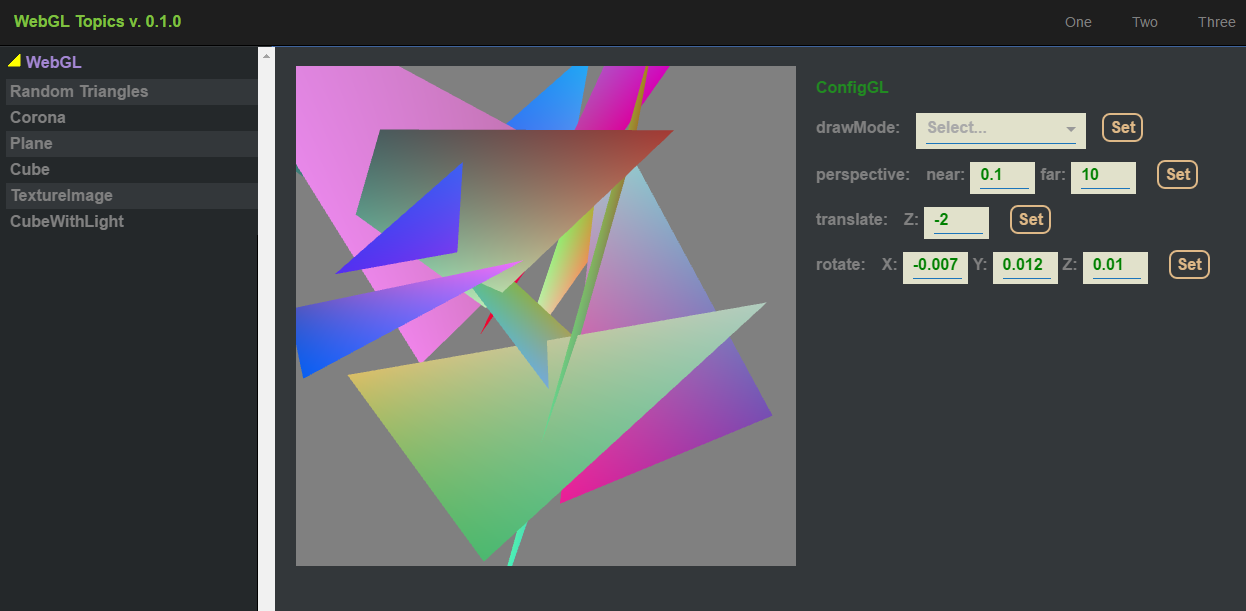
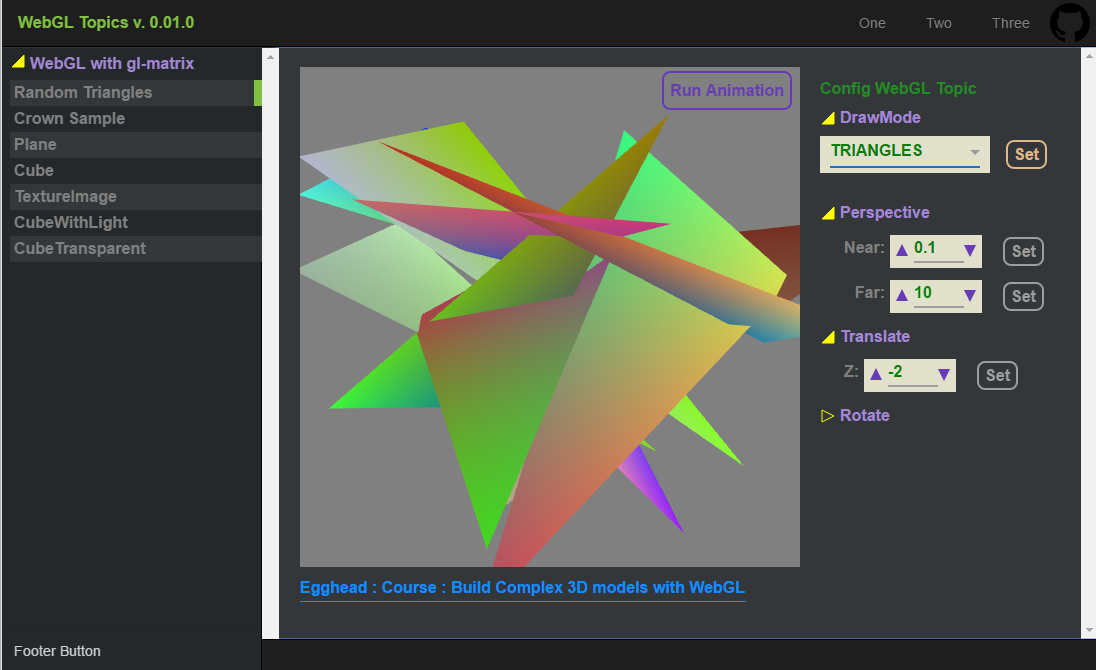
Update screenshot

diff --git a/css/app-f8a19b2c02.min.css b/css/app-f8a19b2c02.min.css
@@ -1,0 +1,1 @@
+.row__topic__even,.row__topic__odd{line-height:1.5;color:#000;padding-top:1px;padding-bottom:1px;padding-left:4px;cursor:pointer}.native-link,.noscript__caption,.row__topic__even,.row__topic__odd{font-size:16px;font-weight:700}.row:after,.sidebar__footer::before{content:""}.header__github-link,.native-link,.noscript__link,.sidebar__footer__link,a{text-decoration:none}.show-popup{transform-origin:50% 0;animation:showing-popup .4s ease-out}.hide-popup{transform-origin:50% 0;animation:hiding-popup .4s ease-out}.row__topic__odd{background-color:#33373A}.native-link,.native-link:visited{color:#0b8fff}.row__topic__even:hover,.row__topic__odd:hover{border-bottom:1px solid #1B75BB}.row{float:left}.row:after{clear:both;display:block}.native-link{display:block;border-bottom:thin solid}.native-link:hover{border-bottom-width:medium}.noscript__root{background-color:#4D4D4D;margin-top:30px;width:570px;margin-left:auto;margin-right:auto;height:120px;border:2px solid #232F3B;border-radius:10px;padding:10px}.noscript__header{background-color:#232F3B;height:28px;border-bottom-left-radius:10px;border-bottom-right-radius:10px;padding-top:4px;padding-left:10px;padding-right:10px;margin-bottom:10px}.app,body,html{height:100%}.noscript__caption{color:#80c040}.noscript__msg{background-color:#FFC100;border-top-left-radius:10px;border-top-right-radius:10px;color:#000;font-weight:700;padding:5px 10px 10px}*,button{padding:0;margin:0}.noscript__link{color:#000;border-bottom:1px solid #1B75BB}*{box-sizing:border-box}a{color:#000;outline:0}a:visited{color:gray}button{background:0 0;border:0;font-family:inherit;-moz-appearance:none}.option-row:hover,.option-row__active{border-bottom:solid 2px #1B75BB;font-weight:bolder}html{font-size:100%;background:#33373A}body{background-color:gray;margin:0;overflow:auto;font:1em/1.7 "Open Sans",Helvetica,Arial,sans-serif;color:#CBD0D0;word-wrap:break-word}.app{position:relative;z-index:1;padding-top:3rem;overflow:hidden;background:#33373A;transition:opacity .2s ease 0s}.header{position:absolute;z-index:3;top:0;left:0;right:0;height:3rem;line-height:3rem;background:#1E1E1E;border-bottom:1px solid #000}.header__nav{float:right;margin-right:.5rem;font-size:.875rem;color:#CBD0D0}.header__nav__link,.header__nav__link:hover{position:relative;float:left;padding:0 1.25rem;color:gray;text-decoration:none}.header__github-link{display:inline-block;position:relative;float:left;fill:#000;transition:fill .2s ease-out}.header__github-link svg{width:2.5rem;height:3rem}.sidebar__footer,.sidebar__menu{width:260px;box-shadow:-1px 0 #000 inset}.header__github-link:hover{fill:#80c040}.sidebar{position:absolute;z-index:2;top:3rem;bottom:0;left:0;margin-top:1px;overflow-x:hidden;overflow-y:scroll;background:padding-box content-box #24282A}.sidebar__menu{margin:0;padding:0 0 3.5rem;list-style:none;min-height:100%}.sidebar__footer{position:fixed;bottom:0;left:0;background:#24282A;transform:translateZ(0)}.sidebar__footer::before{position:absolute;bottom:100%;left:0;right:1px;height:1em;background-image:linear-gradient(to bottom,rgba(36,40,42,0),rgba(36,40,42,.95));pointer-events:none}.sidebar__footer__link{color:inherit;position:relative;display:inline-block;overflow:hidden;height:2.5rem;line-height:1rem;padding:.75rem .25rem .75rem .75rem;font-size:.875em;cursor:pointer}.container{position:relative;z-index:1;height:100%;margin-left:260px;padding-bottom:2rem;pointer-events:none}.container__content{position:relative;height:100%;overflow-y:scroll;margin-left:.875rem;padding:1.25rem 1.5rem 0;font-size:.875rem;pointer-events:auto}.container__footer{position:absolute;z-index:3;bottom:0;left:260px;right:0;height:2rem;line-height:2rem;padding:0 .375rem;font-size:.875rem;background:#1E1E1E;box-shadow:0 1px #000 inset}.not-selected{-webkit-touch-callout:none;-webkit-user-select:none;-khtml-user-select:none;-moz-user-select:none;-ms-user-select:none;user-select:none}

diff --git a/js/components/topic-menu/menuModel.js b/js/components/topic-menu/menuModel.js
@@ -4,6 +4,10 @@ Object.defineProperty(exports, "__esModule", {
   value: true
 });
 
+var _ID = require('../topics/ID');
+
+var _ID2 = _interopRequireDefault(_ID);
+
 var _RouterTopicActions = require('../../flux/actions/RouterTopicActions');
 
 var _RouterTopicActions2 = _interopRequireDefault(_RouterTopicActions);
@@ -11,48 +15,48 @@ var _RouterTopicActions2 = _interopRequireDefault(_RouterTopicActions);
 function _interopRequireDefault(obj) { return obj && obj.__esModule ? obj : { default: obj }; }
 
 var menuModel = [{
-  caption: 'WebGL',
+  caption: 'WebGL with gl-matrix',
   items: [{
-    id: 'RANDOM_TRIANGLES',
+    id: _ID2.default.RANDOM_TRIANGLES,
     title: "Random Triangles",
     onClick: function onClick() {
-      return _RouterTopicActions2.default.viewTopic('RANDOM_TRIANGLES');
+      return _RouterTopicActions2.default.viewTopic(_ID2.default.RANDOM_TRIANGLES);
     }
   }, {
-    id: 'CORONA',
-    title: "Corona",
+    id: _ID2.default.CROWN,
+    title: "Crown Sample",
     onClick: function onClick() {
-      return _RouterTopicActions2.default.viewTopic('CORONA');
+      return _RouterTopicActions2.default.viewTopic(_ID2.default.CROWN);
     }
   }, {
-    id: 'PLANE',
+    id: _ID2.default.PLANE,
     title: "Plane",
     onClick: function onClick() {
-      return _RouterTopicActions2.default.viewTopic('PLANE');
+      return _RouterTopicActions2.default.viewTopic(_ID2.default.PLANE);
     }
   }, {
-    id: 'CUBE',
+    id: _ID2.default.CUBE,
     title: "Cube",
     onClick: function onClick() {
-      return _RouterTopicActions2.default.viewTopic('CUBE');
+      return _RouterTopicActions2.default.viewTopic(_ID2.default.CUBE);
     }
   }, {
-    id: 'TEXTURE_IMAGE',
+    id: _ID2.default.TEXTURE_IMAGE,
     title: "TextureImage",
     onClick: function onClick() {
-      return _RouterTopicActions2.default.viewTopic('TEXTURE_IMAGE');
+      return _RouterTopicActions2.default.viewTopic(_ID2.default.TEXTURE_IMAGE);
     }
   }, {
-    id: 'CUBE_WITH_LIGHT',
+    id: _ID2.default.CUBE_WITH_LIGHT,
     title: "CubeWithLight",
     onClick: function onClick() {
-      return _RouterTopicActions2.default.viewTopic('CUBE_WITH_LIGHT');
+      return _RouterTopicActions2.default.viewTopic(_ID2.default.CUBE_WITH_LIGHT);
     }
   }, {
-    id: 'CUBE_TRANSPARENT',
+    id: _ID2.default.CUBE_TRANSPARENT,
     title: "CubeTransparent",
     onClick: function onClick() {
-      return _RouterTopicActions2.default.viewTopic('CUBE_TRANSPARENT');
+      return _RouterTopicActions2.default.viewTopic(_ID2.default.CUBE_TRANSPARENT);
     }
   }]
 }];

diff --git a/js/components/topics/factoryTopic.js b/js/components/topics/factoryTopic.js
@@ -4,9 +4,15 @@ Object.defineProperty(exports, "__esModule", {
   value: true
 });
 
+var _rTopic2;
+
 var _WebGLTopic = require('./WebGLTopic');
 
 var _WebGLTopic2 = _interopRequireDefault(_WebGLTopic);
+
+var _ID = require('./ID');
+
+var _ID2 = _interopRequireDefault(_ID);
 
 var _RandomTriangles = require('./gl-props/RandomTriangles');
 
@@ -38,26 +44,18 @@ var _CubeTransparent2 = _interopRequireDefault(_CubeTransparent);
 
 function _interopRequireDefault(obj) { return obj && obj.__esModule ? obj : { default: obj }; }
 
-//import React from 'react';
+function _defineProperty(obj, key, value) { if (key in obj) { Object.defineProperty(obj, key, { value: value, enumerable: true, configurable: true, writable: true }); } else { obj[key] = value; } return obj; }
 
-var _rTopic = {
-  DEFAULT: { props: _RandomTriangles2.default },
-  //DEFAULT : { props : CubeWithLight },
-  RANDOM_TRIANGLES: { props: _RandomTriangles2.default },
-  CORONA: { props: _CoronaSample2.default },
-  PLANE: { props: _Plane2.default },
-  CUBE: { props: _Cube2.default },
-  TEXTURE_IMAGE: { props: _TextureImage2.default },
-  CUBE_WITH_LIGHT: { props: _CubeWithLight2.default },
-  CUBE_TRANSPARENT: { props: _CubeTransparent2.default }
-};
+var _rTopic = (_rTopic2 = {
+  DEFAULT: { props: _RandomTriangles2.default }
+
+}, _defineProperty(_rTopic2, _ID2.default.RANDOM_TRIANGLES, { props: _RandomTriangles2.default }), _defineProperty(_rTopic2, _ID2.default.CROWN, { props: _CoronaSample2.default }), _defineProperty(_rTopic2, _ID2.default.PLANE, { props: _Plane2.default }), _defineProperty(_rTopic2, _ID2.default.CUBE, { props: _Cube2.default }), _defineProperty(_rTopic2, _ID2.default.TEXTURE_IMAGE, { props: _TextureImage2.default }), _defineProperty(_rTopic2, _ID2.default.CUBE_WITH_LIGHT, { props: _CubeWithLight2.default }), _defineProperty(_rTopic2, _ID2.default.CUBE_TRANSPARENT, { props: _CubeTransparent2.default }), _rTopic2);
 
 var factoryTopic = function factoryTopic(topicId) {
   var config = _rTopic[topicId],
       props = config ? config.props : _rTopic.DEFAULT.props;
 
   props.key = topicId + Date.now();
-  //return React.createElement(WebGLTopic, props);
   return { Comp: _WebGLTopic2.default, props: props };
 };
 

diff --git a/src/components/topic-menu/menuModel.js b/src/components/topic-menu/menuModel.js
@@ -1,38 +1,39 @@
 
+import ID from '../topics/ID';
 import Actions from '../../flux/actions/RouterTopicActions'
 
 const menuModel = [
   {
-    caption : 'WebGL',
+    caption : 'WebGL with gl-matrix',
     items : [
       {
-        id : 'RANDOM_TRIANGLES',
+        id : ID.RANDOM_TRIANGLES,
         title: "Random Triangles" ,
-        onClick : () => Actions.viewTopic('RANDOM_TRIANGLES')
+        onClick : () => Actions.viewTopic(ID.RANDOM_TRIANGLES)
       },{
-        id : 'CORONA',
-        title: "Corona" ,
-        onClick : () => Actions.viewTopic('CORONA')
+        id : ID.CROWN,
+        title: "Crown Sample" ,
+        onClick : () => Actions.viewTopic(ID.CROWN)
       },{
-        id : 'PLANE',
+        id : ID.PLANE,
         title: "Plane",
-        onClick : () => Actions.viewTopic('PLANE')
+        onClick : () => Actions.viewTopic(ID.PLANE)
       },{
-        id : 'CUBE',
+        id : ID.CUBE,
         title: "Cube",
-        onClick : () => Actions.viewTopic('CUBE')
+        onClick : () => Actions.viewTopic(ID.CUBE)
       },{
-        id : 'TEXTURE_IMAGE',
+        id : ID.TEXTURE_IMAGE,
         title: "TextureImage",
-        onClick : () => Actions.viewTopic('TEXTURE_IMAGE')
+        onClick : () => Actions.viewTopic(ID.TEXTURE_IMAGE)
       },{
-        id : 'CUBE_WITH_LIGHT',
+        id : ID.CUBE_WITH_LIGHT,
         title: "CubeWithLight",
-        onClick : () => Actions.viewTopic('CUBE_WITH_LIGHT')
+        onClick : () => Actions.viewTopic(ID.CUBE_WITH_LIGHT)
       },{
-        id : 'CUBE_TRANSPARENT',
+        id : ID.CUBE_TRANSPARENT,
         title: "CubeTransparent",
-        onClick : () => Actions.viewTopic('CUBE_TRANSPARENT')
+        onClick : () => Actions.viewTopic(ID.CUBE_TRANSPARENT)
       }
     ]
   }

diff --git a/src/components/topics/factoryTopic.js b/src/components/topics/factoryTopic.js
@@ -1,6 +1,6 @@
-//import React from 'react';
-
 import WebGLTopic from './WebGLTopic';
+
+import ID from './ID';
 
 import RandomTriangles from './gl-props/RandomTriangles';
 import CoronaSample from './gl-props/CoronaSample';
@@ -12,27 +12,25 @@ import CubeTransparent from './gl-props/CubeTransparent';
 
 const _rTopic = {
   DEFAULT : { props : RandomTriangles },
-  //DEFAULT : { props : CubeWithLight },
-  RANDOM_TRIANGLES : { props : RandomTriangles },
-  CORONA : { props : CoronaSample },
-  PLANE : { props : Plane },
-  CUBE : { props : Cube },
-  TEXTURE_IMAGE : { props: TextureImage },
-  CUBE_WITH_LIGHT : { props: CubeWithLight },
-  CUBE_TRANSPARENT : { props : CubeTransparent }
+
+  [ID.RANDOM_TRIANGLES] : { props : RandomTriangles },
+  [ID.CROWN] : { props : CoronaSample },
+  [ID.PLANE] : { props : Plane },
+  [ID.CUBE] : { props : Cube },
+  [ID.TEXTURE_IMAGE] : { props: TextureImage },
+  [ID.CUBE_WITH_LIGHT] : { props: CubeWithLight },
+  [ID.CUBE_TRANSPARENT] : { props : CubeTransparent }
 }
 
 const factoryTopic = (topicId) => {
   const config  = _rTopic[topicId]
       , props = (config)
           ? config.props
-          : _rTopic.DEFAULT.props
+          : _rTopic.DEFAULT.props;
 
   props.key = topicId + Date.now()
-  //return React.createElement(WebGLTopic, props);
   return { Comp : WebGLTopic, props };
-
-}
+};
 
 
 export default factoryTopic

diff --git a/js/flux/stores/WebGlTopicStore.js b/js/flux/stores/WebGlTopicStore.js
@@ -10,6 +10,10 @@ var _reflux = require('reflux');
 
 var _reflux2 = _interopRequireDefault(_reflux);
 
+var _ID = require('../../components/topics/ID');
+
+var _ID2 = _interopRequireDefault(_ID);
+
 var _RouterTopicActions = require('../actions/RouterTopicActions');
 
 var _RouterTopicActions2 = _interopRequireDefault(_RouterTopicActions);
@@ -23,7 +27,7 @@ function _interopRequireDefault(obj) { return obj && obj.__esModule ? obj : { de
 var WebGlStore = _reflux2.default.createStore(_extends({
   listenables: [_RouterTopicActions2.default],
   state: {
-    topicId: 'RANDOM_TRIANGLES'
+    topicId: _ID2.default.RANDOM_TRIANGLES
   }
 
 }, _RouterTopicSlice2.default));

diff --git a/src/flux/stores/WebGlTopicStore.js b/src/flux/stores/WebGlTopicStore.js
@@ -1,5 +1,6 @@
 import Reflux from 'reflux';
 
+import TopicID from '../../components/topics/ID';
 import RouterTopicActions from '../actions/RouterTopicActions'
 
 import RouterTopicSlice from './RouterTopicSlice';
@@ -7,7 +8,7 @@ import RouterTopicSlice from './RouterTopicSlice';
 const WebGlStore = Reflux.createStore({
   listenables : [ RouterTopicActions ],
   state : {
-    topicId : 'RANDOM_TRIANGLES'
+    topicId : TopicID.RANDOM_TRIANGLES
   },
 
   ...RouterTopicSlice

diff --git a/js/flux/stores/RouterTopicSlice.js b/js/flux/stores/RouterTopicSlice.js
@@ -9,10 +9,10 @@ var _RouterTopicActions = require('../actions/RouterTopicActions');
 var RouterTopicSlice = {
   _setTopicId: function _setTopicId(topicId) {
     this.state.topicId = topicId;
-    this.trigger(_RouterTopicActions.RouterTopicActionTypes.VIEW_TOPIC, this.state);
   },
   onViewTopic: function onViewTopic(topicId) {
     this._setTopicId(topicId);
+    this.trigger(_RouterTopicActions.RouterTopicActionTypes.VIEW_TOPIC, this.state);
   }
 };
 

diff --git a/src/flux/stores/RouterTopicSlice.js b/src/flux/stores/RouterTopicSlice.js
@@ -3,12 +3,12 @@ import { RouterTopicActionTypes } from '../actions/RouterTopicActions';
 const RouterTopicSlice = {
 
   _setTopicId(topicId){
-    this.state.topicId = topicId;
-    this.trigger(RouterTopicActionTypes.VIEW_TOPIC, this.state);
+    this.state.topicId = topicId;    
   },
 
-  onViewTopic(topicId){    
+  onViewTopic(topicId){
     this._setTopicId(topicId);
+    this.trigger(RouterTopicActionTypes.VIEW_TOPIC, this.state);
   }
 }
 

diff --git a/css/template.css b/css/template.css
@@ -155,3 +155,12 @@ body {
   background: #1E1E1E none repeat scroll 0% 0%;
   box-shadow: 0px 1px #000 inset;
 }
+
+.not-selected {
+  -webkit-touch-callout: none; /* iOS Safari */
+  -webkit-user-select: none;   /* Chrome all / Safari all / Opera */
+  -khtml-user-select: none;    /* Konqueror */
+  -moz-user-select: none;      /* Firefox all */
+  -ms-user-select: none;       /* IE 10+ */
+  user-select: none;           /* Likely future */
+}

diff --git a/js/components/topics/ID.js b/js/components/topics/ID.js
@@ -1,0 +1,19 @@
+'use strict';
+
+Object.defineProperty(exports, "__esModule", {
+  value: true
+});
+
+
+var ID = {
+  RANDOM_TRIANGLES: 'RANDOM_TRIANGLES',
+  CROWN: 'CROWN',
+  PLANE: 'PLANE',
+  CUBE: 'CUBE',
+  TEXTURE_IMAGE: 'TEXTURE_IMAGE',
+  CUBE_WITH_LIGHT: 'CUBE_WITH_LIGHT',
+  CUBE_TRANSPARENT: 'CUBE_TRANSPARENT'
+};
+
+exports.default = ID;
+//# sourceMappingURL=D:\_Dev\_React\_WebGL_Topic\js\components\topics\ID.js.map

diff --git a/src/components/zhn-atoms/ButtonSet.Style.js b/src/components/zhn-atoms/ButtonSet.Style.js
@@ -12,9 +12,11 @@ const STYLE = {
     position : 'relative',
     top : '4px'
   },
-  VALID_CHANGED : {
-    color: '#673ab7',
-    border: '2px solid #673ab7',
+  VALID_CHANGED : {    
+    color: '#DEB887',
+    border: '2px solid #DEB887',
+    //color: '#673ab7',
+    //border: '2px solid #673ab7',
   },
   VALID_NOT_CHANGED : {
     color: '#9e9e9e',
